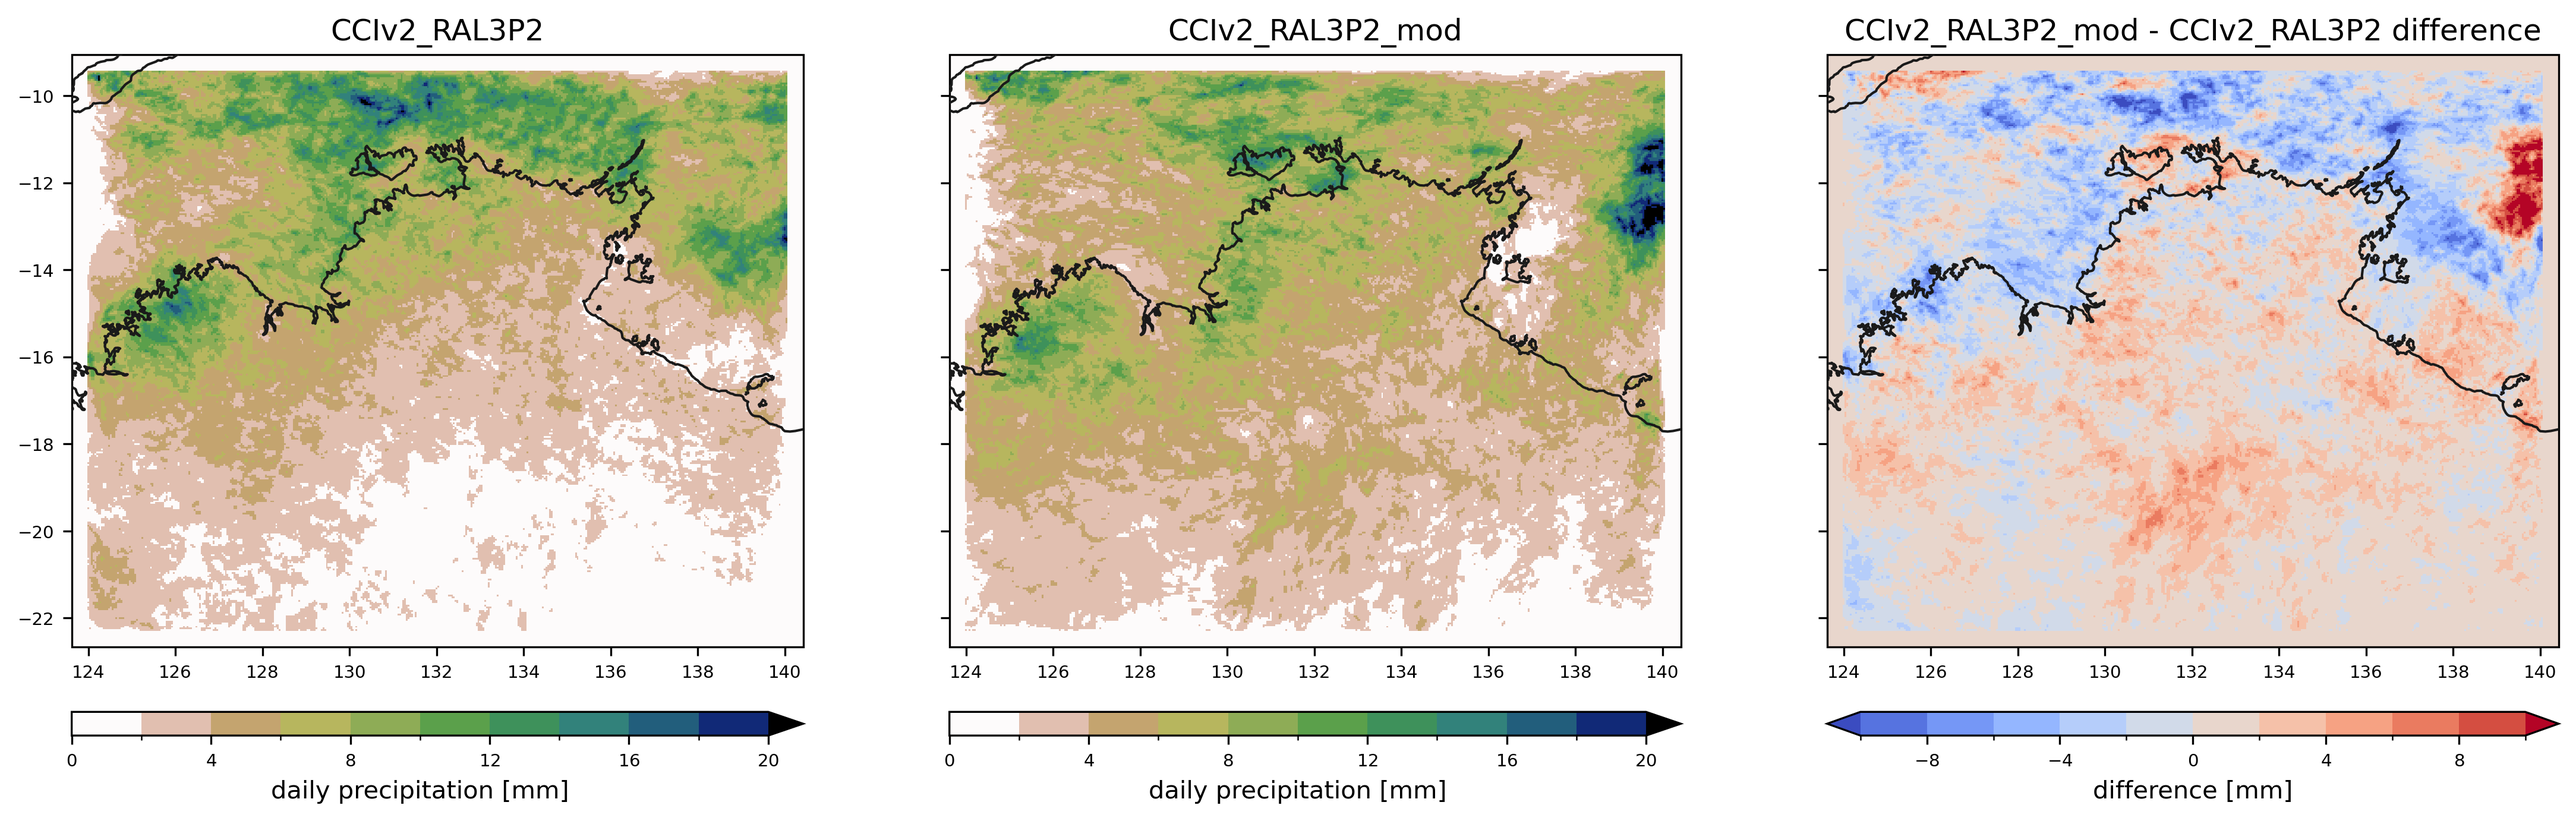
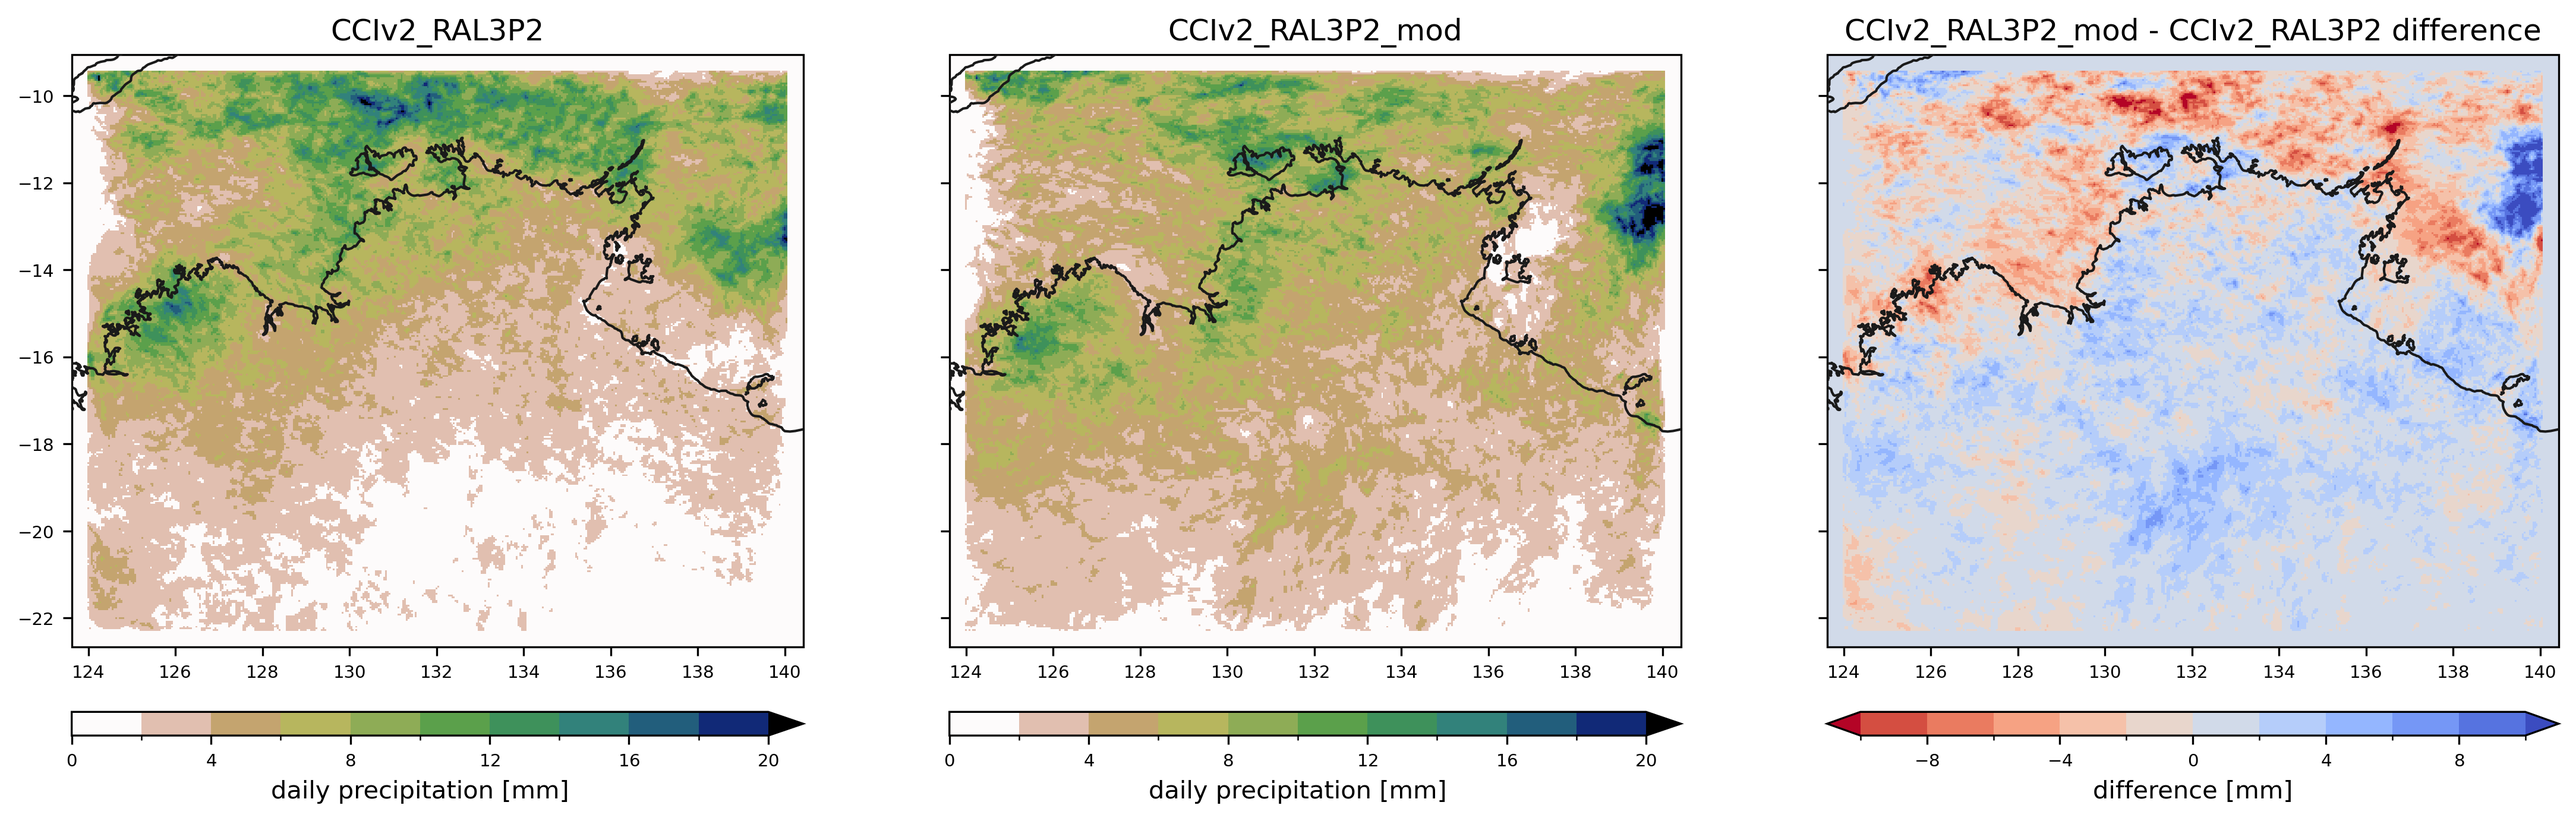
precip wetness to blue

Changed region(s): [[0.6851, 0.0622, 0.9965, 0.809], [0.7163, 0.8712, 0.9965, 0.9023]]

diff --git a/plotting/plot_pp.py b/plotting/plot_pp.py
@@ -56,7 +56,6 @@ def plot_rain_diff(ds, coarsen=False):
     # calculate mean mm per day
     pr_mean = ds.mean(dim='time') * 86400  # convert from kg m-2 s-1 to mm/day
 
-    # pr_mean = pr.sum(dim='time')
     pr_mean['diff'] = pr_mean[exps[1]] - pr_mean[exps[0]]
     pr_mean = pr_mean.compute()
 
@@ -75,7 +74,7 @@ def plot_rain_diff(ds, coarsen=False):
                             subplot_kw={'projection': proj})
 
     for ax, exp in zip(axes.flatten(), exps+['diff']):
-        cmap = opts['cmap'] if exp != 'diff' else 'coolwarm'
+        cmap = opts['cmap'] if exp != 'diff' else 'coolwarm_r'
         vmin = 0 if exp != 'diff' else -10
         vmax = 20 if exp != 'diff' else 10
         title = exp if exp != 'diff' else f'{exps[1]} - {exps[0]} difference'
@@ -265,11 +264,6 @@ def get_um_data(exp_path,opts):
         da = da - 273.15
         da.attrs['units'] = '°C'
 
-    if opts['constraint'] in ['stratiform_rainfall_flux_mean']:
-        print('converting from mm/s to mm/h')
-        da = da * 3600.
-        da.attrs['units'] = 'mm/h'
-
     if opts['constraint'] in ['moisture_content_of_soil_layer']:
         da = da.isel(depth=opts['level'])
 
@@ -449,39 +443,39 @@ def save_netcdf(das, exp, opts):
 
     return
 
-def calc_moisture_convergence(u,v,q):
-    """
-    Calculate moisture convergence from zonal and meridional wind components
-    and specific humidity.
+# def calc_moisture_convergence(u,v,q):
+#     """
+#     Calculate moisture convergence from zonal and meridional wind components
+#     and specific humidity.
 
-    Parameters:
-    u : xarray.DataArray
-        Zonal wind component (m/s).
-    v : xarray.DataArray
-        Meridional wind component (m/s).
-    q : xarray.DataArray
-        Specific humidity (kg/kg).
-    Returns:
-    moisture_convergence : xarray.DataArray
-        Moisture convergence (kg/(m^2 s)).
-    """
+#     Parameters:
+#     u : xarray.DataArray
+#         Zonal wind component (m/s).
+#     v : xarray.DataArray
+#         Meridional wind component (m/s).
+#     q : xarray.DataArray
+#         Specific humidity (kg/kg).
+#     Returns:
+#     moisture_convergence : xarray.DataArray
+#         Moisture convergence (kg/(m^2 s)).
+#     """
 
-    print('Calculating moisture convergence...')
+#     print('Calculating moisture convergence...')
     
-    # Ensure input DataArrays have the same dimensions
-    assert u.shape == v.shape == q.shape, "Input DataArrays must have the same dimensions."
+#     # Ensure input DataArrays have the same dimensions
+#     assert u.shape == v.shape == q.shape, "Input DataArrays must have the same dimensions."
     
-    # Compute spatial gradients using finite differences
-    dq_dx = q.differentiate("longitude", edge_order=2)
-    dq_dy = q.differentiate("latitude", edge_order=2)
-    du_dx = u.differentiate("longitude", edge_order=2)
-    dv_dy = v.differentiate("latitude", edge_order=2)
+#     # Compute spatial gradients using finite differences
+#     dq_dx = q.differentiate("longitude", edge_order=2)
+#     dq_dy = q.differentiate("latitude", edge_order=2)
+#     du_dx = u.differentiate("longitude", edge_order=2)
+#     dv_dy = v.differentiate("latitude", edge_order=2)
 
-    # Compute moisture convergence
-    moisture_convergence = -(u * dq_dx + v * dq_dy) - q * (du_dx + dv_dy)
-    moisture_convergence.attrs['units'] = 'kg/(m^2 s)'
+#     # Compute moisture convergence
+#     moisture_convergence = -(u * dq_dx + v * dq_dy) - q * (du_dx + dv_dy)
+#     moisture_convergence.attrs['units'] = 'kg/(m^2 s)'
 
-    return moisture_convergence
+#     return moisture_convergence
 
 def calc_moisture_convergence_emma(u,v,qfluxu,qfluxv):
 
@@ -494,8 +488,8 @@ def calc_moisture_convergence_emma(u,v,qfluxu,qfluxv):
     dx = r * np.cos(u.latitude * np.pi / 180.0) * np.pi / 180.0
     dy = r * np.pi / 180.0
 
-    sfcDiv = ( v.differentiate('latitude') / dy 
-             + u.differentiate('longitude') / dx).to_dataset(name='sfcDiv')
+    # sfcDiv = ( v.differentiate('latitude') / dy 
+    #          + u.differentiate('longitude') / dx).to_dataset(name='sfcDiv')
     qDiv = ( qfluxv.differentiate('latitude') / dy 
            + qfluxu.differentiate('longitude') / dx).to_dataset(name='qDiv')
 
